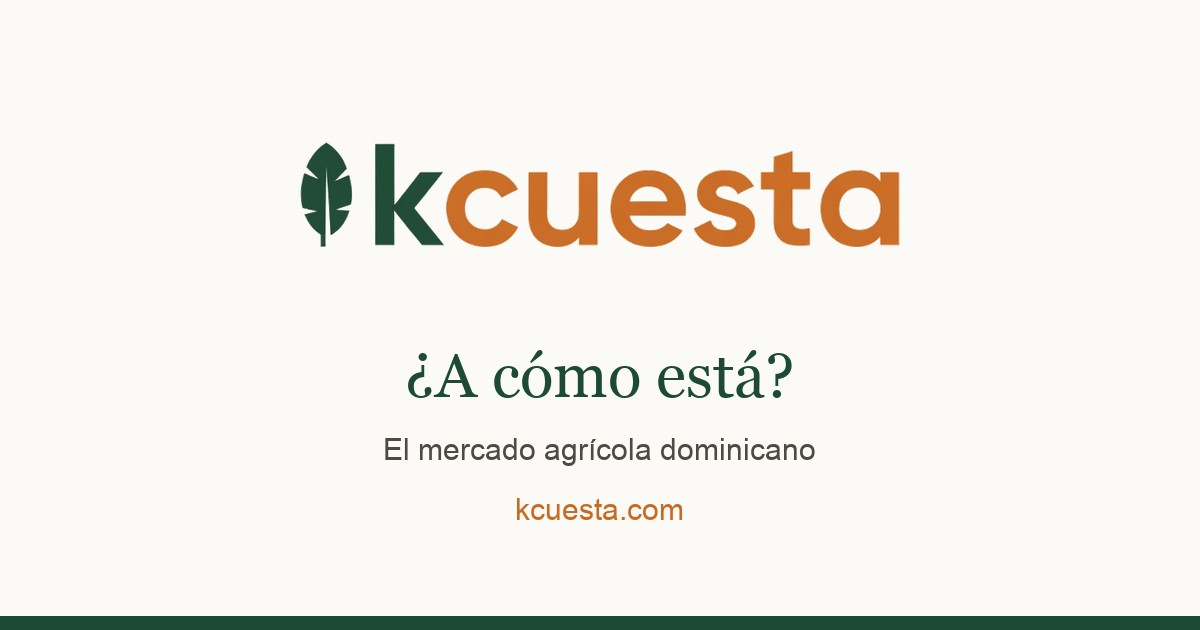
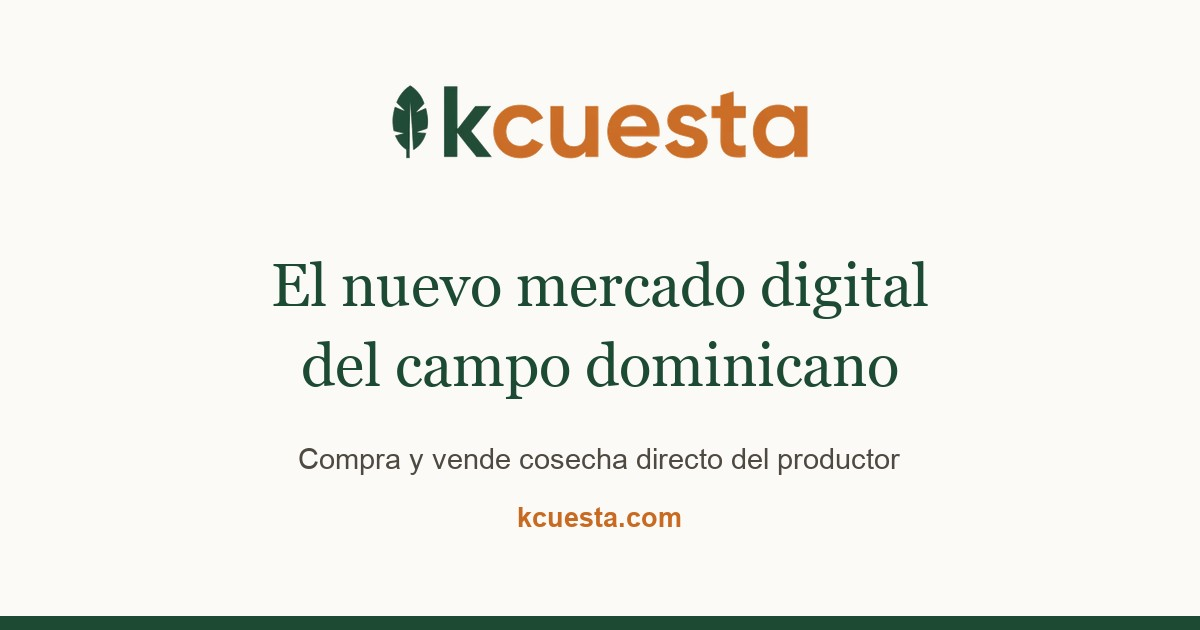
OG card leads with the concept, not the hook
At WhatsApp preview size only the big serif line survives, and '¿A cómo está?'
means nothing to someone who has never seen the brand. The card headline now
reads 'El nuevo mercado digital del campo dominicano'; the hook moved into
og:title, which WhatsApp prints in bold under the image. Both land.

Also set og:site_name and a fuller og:description across all pages.

diff --git a/mercado.html b/mercado.html
@@ -6,7 +6,8 @@
 <title>Kcuesta — ¿A cómo está? Precios y mercado agrícola de República Dominicana</title>
 <meta name="description" content="Precios oficiales del mercado agrícola dominicano, claros y al día. Y lo que los productores tienen en venta hoy, con su precio comparado contra el mercado.">
 <meta property="og:title" content="Kcuesta — ¿A cómo está?">
-<meta property="og:description" content="Precios oficiales del mercado agrícola dominicano y lo que se vende hoy, directo del productor.">
+<meta property="og:description" content="El nuevo mercado digital del campo dominicano. Compra y vende cosecha directo del productor, con el precio oficial al lado.">
+<meta property="og:site_name" content="Kcuesta">
 <meta property="og:locale" content="es_DO">
 <link rel="icon" type="image/png" sizes="32x32" href="assets/brand/icono-32.png">
 <link rel="icon" type="image/png" sizes="192x192" href="assets/brand/icono-192.png">

diff --git a/index.html b/index.html
@@ -6,7 +6,8 @@
 <title>Kcuesta — El mercado agrícola dominicano</title>
 <meta name="description" content="Compra y vende cosecha directo entre productores y compradores en República Dominicana, con el precio oficial del mercado al lado.">
 <meta property="og:title" content="Kcuesta — ¿A cómo está?">
-<meta property="og:description" content="El mercado agrícola dominicano. Del productor al comprador, con el precio oficial al lado.">
+<meta property="og:description" content="El nuevo mercado digital del campo dominicano. Compra y vende cosecha directo del productor, con el precio oficial al lado.">
+<meta property="og:site_name" content="Kcuesta">
 <meta property="og:locale" content="es_DO">
 <meta property="og:type" content="website">
 <link rel="icon" type="image/png" sizes="32x32" href="assets/brand/icono-32.png">
